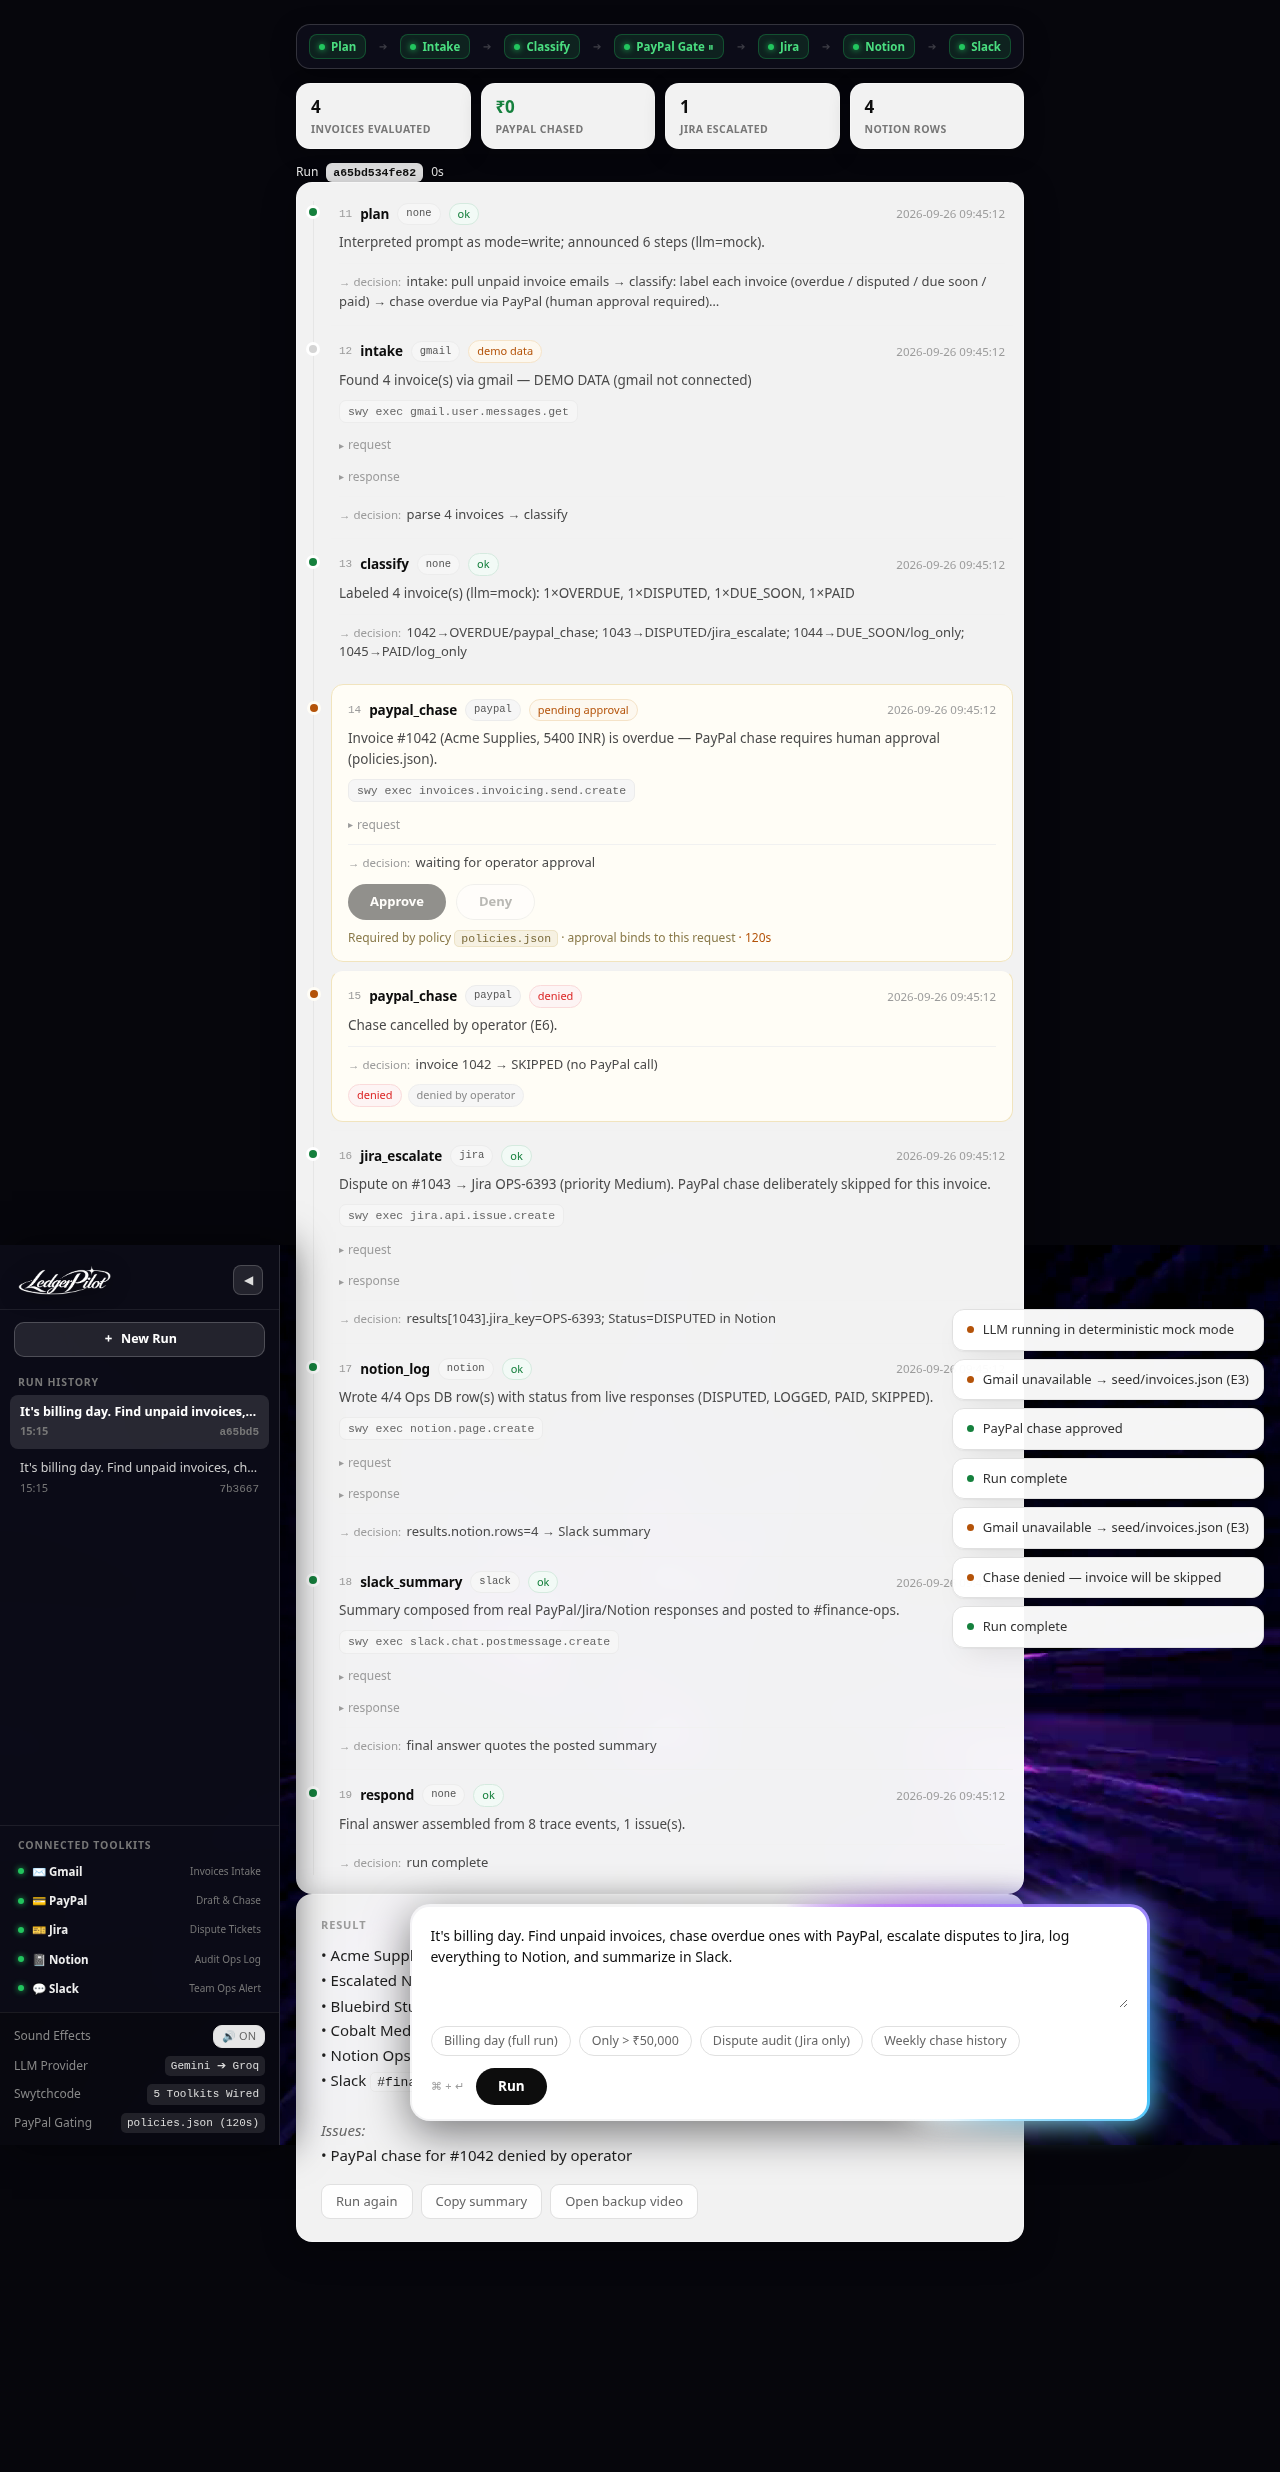
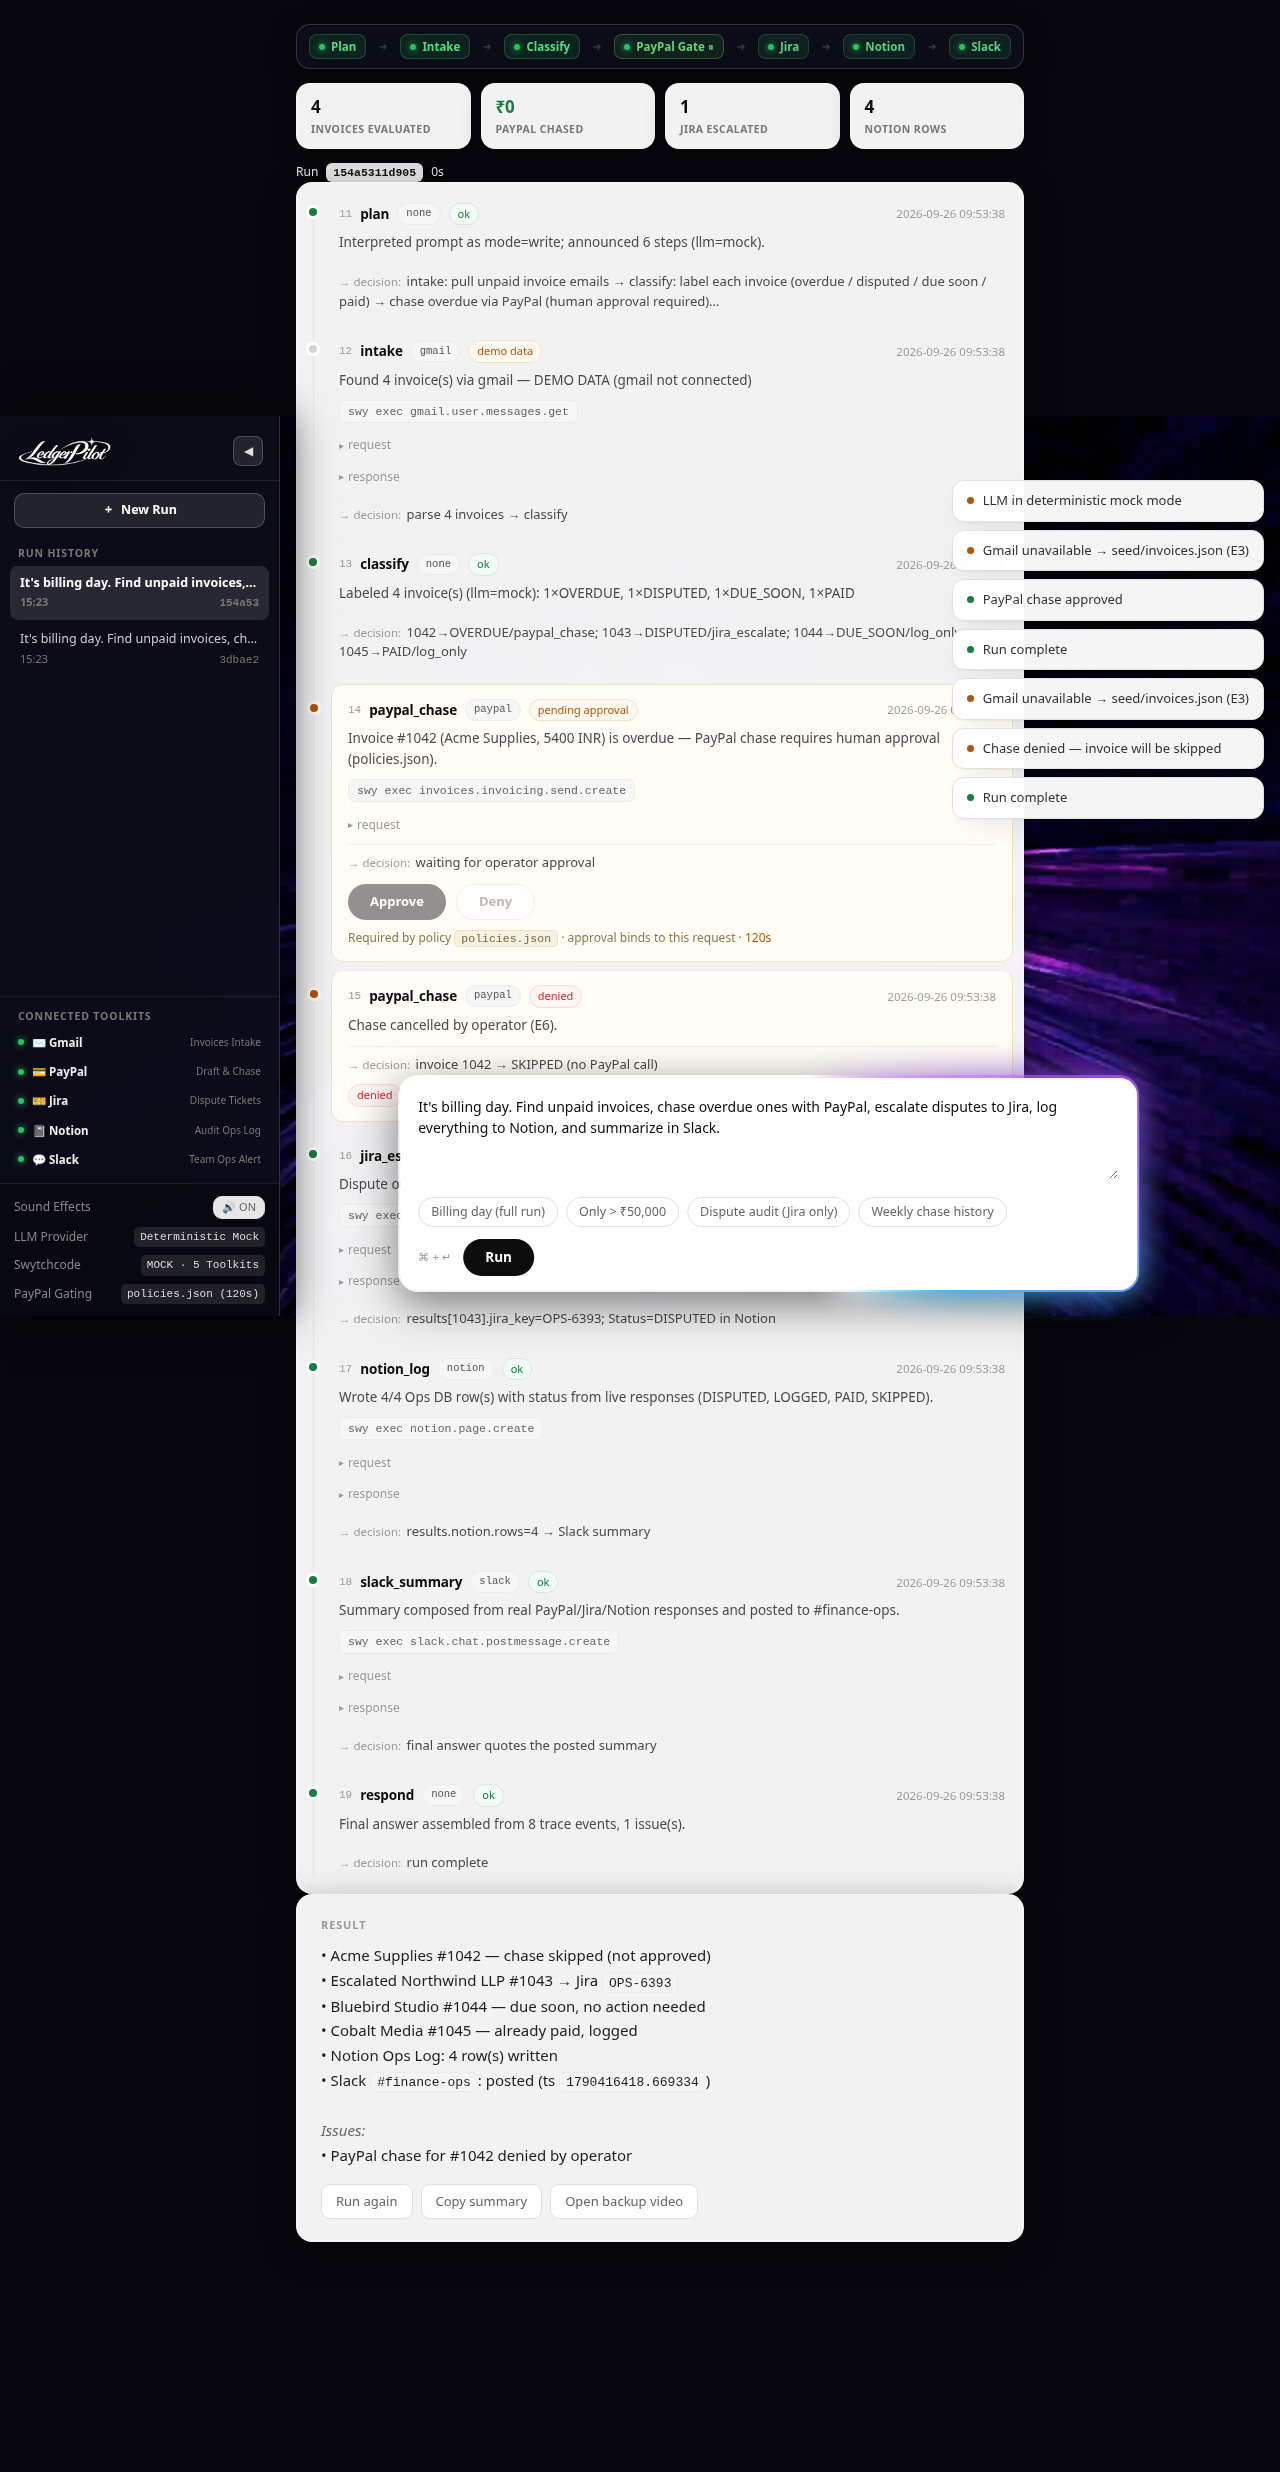
UI: bind backend health status and LLM/toolkit indicators dynamically

Changed region(s): [[0.2812, 0.1869, 1.0, 0.8722], [0.0, 0.1557, 0.25, 0.8722], [0.0, 0.7476, 0.0625, 0.841]]

diff --git a/ui/index.html b/ui/index.html
@@ -623,11 +623,11 @@ pre{
     </div>
     <div class="setting-row">
       <span>LLM Provider</span>
-      <span class="setting-val">Gemini ➔ Groq</span>
+      <span class="setting-val" id="sidebarLlmVal">Gemini ➔ Groq</span>
     </div>
     <div class="setting-row">
       <span>Swytchcode</span>
-      <span class="setting-val">5 Toolkits Wired</span>
+      <span class="setting-val" id="sidebarSwxVal">5 Toolkits Wired</span>
     </div>
     <div class="setting-row">
       <span>PayPal Gating</span>
@@ -651,7 +651,7 @@ pre{
       <span style="font-size:14px">⚙</span>
       <span class="popover-title">Swytchcode Toolkits</span>
     </div>
-    <span class="popover-badge">5 Active</span>
+    <span class="popover-badge" id="popoverBadge">5 Active</span>
   </div>
   <div class="popover-tools-list">
     <div class="pop-tool-row">
@@ -698,7 +698,7 @@ pre{
     </div>
     <div class="pop-setting-row">
       <span>LLM Provider</span>
-      <span class="pop-setting-val">Gemini ➔ Groq</span>
+      <span class="pop-setting-val" id="popoverLlmVal">Gemini ➔ Groq</span>
     </div>
     <div class="pop-setting-row">
       <span>PayPal Gate</span>
@@ -1364,18 +1364,33 @@ function banner(text){ document.getElementById('bannerText').textContent = text;
 function hideBanner(){ document.getElementById('banner').classList.remove('show'); }
 function retryStream(){ hideBanner(); if(runId && running) startStream(); }
 
-fetch('/healthz').then(r=>r.json()).then(h=>{
-  const p = document.getElementById('statusPill');
-  if(p){
-    const n = (h.toolkits||[]).length;
-    if(h.swx_mode === 'live' && n){ p.textContent = `● ${n} toolkits connected`; p.className='ok'; }
-    else { p.textContent = `● mock mode · ${n} toolkits wired`; p.className='warn'; }
+async function checkBackendHealth(){
+  try{
+    const r = await fetch('/healthz');
+    if(!r.ok) throw new Error('status ' + r.status);
+    const h = await r.json();
+    const isMock = h.llm === 'mock';
+    const llmLabel = isMock ? 'Deterministic Mock' : (h.llm ? (h.llm.toUpperCase() + ' Live') : 'Gemini / Groq');
+    const swxLabel = `${(h.swx_mode || 'live').toUpperCase()} · ${(h.toolkits || []).length} Toolkits`;
+
+    const sl = document.getElementById('sidebarLlmVal'); if(sl) sl.textContent = llmLabel;
+    const pl = document.getElementById('popoverLlmVal'); if(pl) pl.textContent = llmLabel;
+    const ss = document.getElementById('sidebarSwxVal'); if(ss) ss.textContent = swxLabel;
+    const pb = document.getElementById('popoverBadge'); if(pb) pb.textContent = `${(h.toolkits || []).length} Active`;
+
+    hideBanner();
+    if(isMock){
+      toast('LLM in deterministic mock mode', 'warn');
+    }
+    if(h.active_run && !running){
+      runId = h.active_run;
+      startStream();
+    }
+  }catch(e){
+    banner('⚠ Backend server offline — run: python -m server.main');
   }
-  if(h.llm === 'mock') toast('LLM running in deterministic mock mode', 'warn');
-}).catch(()=>{
-  const p = document.getElementById('statusPill');
-  if(p){ p.textContent='● server offline'; p.className='warn'; }
-});
+}
+checkBackendHealth();
 
 document.getElementById('prompt').addEventListener('keydown', e=>{
   if((e.metaKey||e.ctrlKey) && e.key==='Enter') run();
